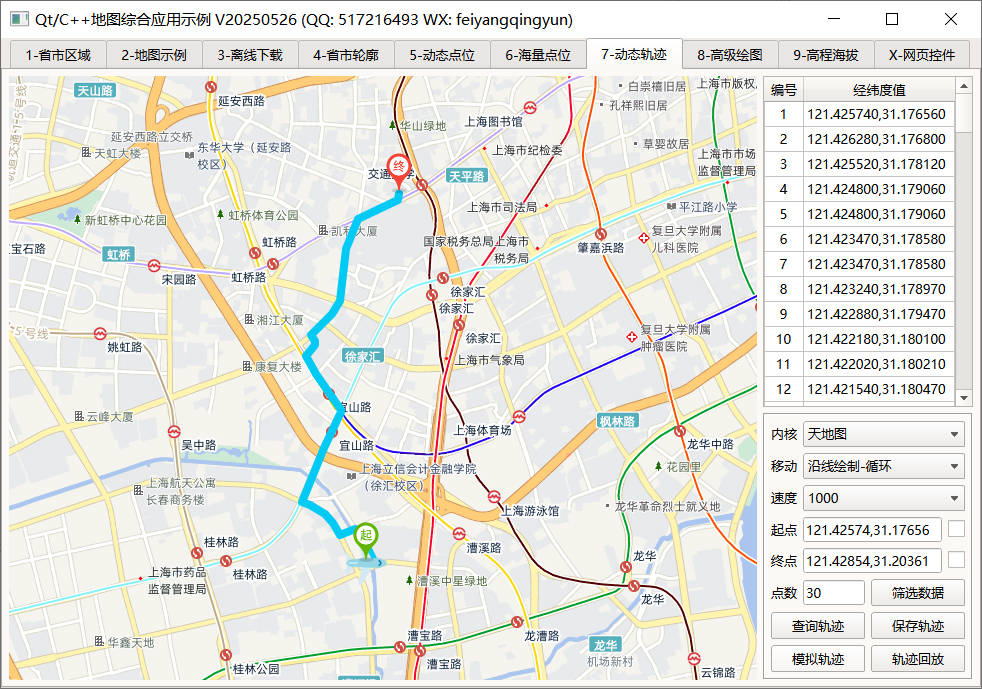
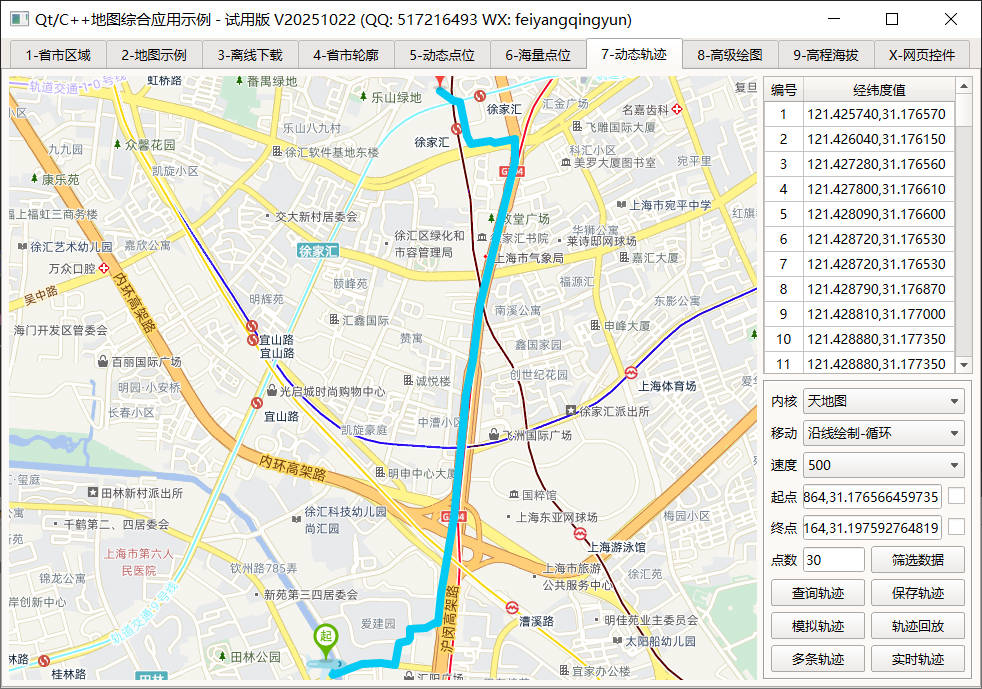
更新

diff --git a/snap_map/readme.md b/snap_map/readme.md
@@ -1,18 +1,19 @@
 ## 1、编译说明
 1. 编译完成以后记得将源码下的file目录下（切记是file目录下而不是file目录）的所有文件复制到可执行文件同一目录下即可。
-2. 可执行文件在源码同级目录下的bin目录，和core_map目录同级。
+2. 可执行文件在源码同级目录下的bin目录，和core_map目录同级，这个目录在编译后自动生成。
 3. 在线地图一般都需要对应的秘钥，本源码中内置的地图秘钥是本人的秘钥字符串，由于对应地图官方并发量有限制，建议换成自己的秘钥体验更加。可以通过函数接口setVersionKey设置秘钥字串。
 4. 百度地图申请步骤可以参考 https://blog.csdn.net/wodegeCSDN/article/details/130224845 。
 5. 本地图组件通过浏览器控件加载，所以依赖浏览器控件。由于不同的Qt版本提供的浏览器控件不同，甚至部分Qt版本比如mingw的Qt不提供浏览器控件，所以专门提供了core_webview组件，该组件封装了webkit/webengine/miniblink三大浏览器内核，会自动根据Qt套件识别出使用哪种浏览器内核，比如windows上mingw版本的Qt会自动采用miniblink内核，linux系统会采用webengine内核。如果有疑问那其他系统的miniblink没有怎办？这个不用考虑，因为其他系统Qt都自带了浏览器控件，不存在这个问题。就windows上的mingw版本的Qt才缺少这个组件。
 6. 如果启用的是miniblink内核，则需要将miniblink的动态库拷贝到可执行文件同一目录。dll_miniblink下载链接: https://pan.baidu.com/s/13LDRu6mXC6gaADtrGprNVA 提取码: ujm7
 7. 特别提示：路线规划和周边搜索相关功能只能在线使用，因为相关算法放在服务器。
 8. 如果需要加载国外的地图带英文以及当地语种，最佳组合是使用天地图离线模式加上谷歌地图瓦片。
+9. 如果发现地图不能在线加载瓦片，比如天地图，那很可能默认的秘钥在当前的瓦片数量已经用完，更换个秘钥即可。
 
 ## 2、离线地图
 1. 想要加载离线地图，前提是要有下载好的离线地图文件，也就是一张张的图片文件。离线地图也叫瓦片地图，这些文件可以使用本项目的离线地图下载模块下载，也可以用第三方的瓦片地图下载器下载。
 2. 如果暂时没有离线地图文件，可以直接下载提供好的离线地图文件测试。离线地图网盘地址：https://pan.baidu.com/s/1ZxG-oyUKe286LPMPxOrO2A 提取码：o05q  文件名：tiles.7z是徐汇区虹漕园精简版离线地图，bin_map_tiles.tar.gz 是上海市离线地图。
 3. 将离线地图文件目录拷贝到可执行文件所在的对应地图内核目录下（mapbaidu/mapgaode/maptian/mapgoogle等），和map_load.js文件同一级目录。
-4. **离线地图目录可能有三个文件夹，tiles表示街道图，tiles_hybrid表示卫星图，tiles_self表示自定义图层，比如需要混合路线图等。天地图比较特殊，分6个目录，对应官网定义的6种地图。街道图底图是vec_w，街道图路网是cva_w，卫星图底图是img_w，卫星图路网是cia_w，地形图底图是ter_w，地形图路网是cta_w。**
+4. **离线地图目录可能有三个文件夹，tiles表示街道图，tiles_hybrid表示卫星图，tiles_self表示自定义图层，比如需要混合路线图等。天地图比较特殊，分6个目录，对应官网定义的6种地图。街道图底图是tiles_vec_w，街道图路网是tiles_cva_w，卫星图底图是tiles_img_w，卫星图路网是tiles_cia_w，地形图底图是tiles_ter_w，地形图路网是tiles_cta_w。天地图图层说明 http://lbs.tianditu.gov.cn/server/MapService.html 。**
 5. 同一种地图内核的离线地图文件通用。网盘上提供的瓦片地图是使用本项目的离线地图下载模块下载的，也可以自己用万能地图下载器下载，对应替换就行。
 6. 瓦片地图就是一张张图片文件，格式可以自定义，如果格式不一样可能会加载失败，需要手动修改。比如百度地图内核需要打开/mapbaidu/map_load.js文件，将.png改成.jpg保存即可。
 7. 经过大量的测试对比发现，无论哪种地图内核，卫星图是jpg格式，其他的比如街道图和叠加图都是png格式。
@@ -26,7 +27,7 @@
 include ($$PWD/../core_map/core_map.pri)
 include ($$PWD/../core_webview/core_webview.pri)
 ```
-2. 在pro中启用地图内核，比如百度地图内核对应需要在pro文件中增加一行定义  DEFINES += baidux，天地图内核对应 DEFINES += tianx
+2. 在pro中启用地图内核，比如百度地图内核对应需要在pro文件中增加一行定义  DEFINES += baidux，天地图内核对应 DEFINES += tianx。如果是vsqt环境，添加的位置大概在属性-》配置属性-》C/C++-》预处理器。
 3. 引入头文件。
 ```cpp
 #include "webview.h"
@@ -40,8 +41,8 @@ include ($$PWD/../core_webview/core_webview.pri)
 WebView *webView = new WebView(this);
 //加入到布局
 webView->setLayout(ui->gridLayout);
-//实例化地图类/参数2表示何种地图内核
-MapObjBase *mapObj = MapHelper::getMapObj(this, MapCore_BaiDu);
+//实例化地图类/参数2表示何种地图内核/你用的哪一种就填哪一种/必须正确
+MapObjBase *mapObj = MapHelper::getMapObj(this, MapCore_Tian);
 //传入网页控件用于执行函数
 mapObj->setWebView(webView);
 //直接加载地图
@@ -311,7 +312,7 @@ int main(int argc, char *argv[])
 - **筛选后如果想恢复数据，数量填0重新筛选即可，0表示不筛选直接用原始数据。**
 7. 第七步：保存轨迹，这一步可选，可以将当前查询的轨迹点保存到文本文件中，以便提供给轨迹回放模块使用。
 8. 第八步：模拟轨迹，单击模拟轨迹按钮，会按照设定的速度模拟轨迹点移动，按钮字样变成停止模拟，再次单击则停止模拟。
-9. 第九步：轨迹回放，这一步可选，单击轨迹回放按钮，弹出轨迹回放界面。
+9. 第九步：轨迹回放、多条轨迹、实时轨迹，这一步可选，单击按钮弹出对应界面。
 
 #### 4.7.2 轨迹回放
 ![](snap/map701.jpg)
@@ -320,10 +321,30 @@ int main(int argc, char *argv[])
 2. 也可以选择在线地图还是离线地图，目前百度地图有离线地图。
 3. 切换地图类型，可以切换到街道图、卫星图、混合图三种。有些用户希望在混合图中看轨迹回放效果。
 4. 选择移动的速度，值越大速度越快。
-5. 下拉选择数据来源，可选两点坐标、多点坐标、文件导入。两点坐标用来测试给定两个点坐标，在两点个形成的直线上运动，主要是为了验证不是跳跃运动，而是匀速移动。底层会根据线条自动生成了平滑的移动点。
-6. 文件导入就是导入的上一个界面保存轨迹后生成的文件，在这里可以看到回放。由于不同地图内核使用的坐标系不一样，所以这个文件的路径轨迹未必一致。比如百度地图搜索出来的轨迹点，放到其他地图上绘制，看起来经过的路线不正确，坐标点并不在实际的路线中。高德和腾讯的通用。
-7. 在这里演示移动轨迹的时候，部分地图内核会自动设置当前地图中心点是最近的一个点，这样看起来效果更好。
-8. 轨迹回放中的数据源下拉框选项有个文件导入，是从可执行文件根目录的points.txt文件导入的坐标，格式46.688610,24.773230;46.691320,24.773930，可以手动新建一个文件填入你需要验证的轨迹点集合，至少填两个点。这个文件在动态轨迹中查询路径后单击保存轨迹会保存到这个文件。
+5. 下拉选择数据来源，可选两点坐标、多点坐标、轨迹数据、选择文件。
+6. 两点坐标用来测试给定两个点坐标，在两点个形成的直线上运动，主要是为了验证不是跳跃运动，而是匀速移动。底层会根据线条自动生成了平滑的移动点。
+7. 多点坐标用来测试多个经纬度坐标点，生成的曲线运动。
+8. 轨迹数据就是固定从 data/points.txt 文件读取轨迹点显示，这个文件是上一个界面单击保存轨迹按钮后生成的文件，在这里可以看到回放。由于不同地图内核使用的坐标系不一样，所以这个文件的路径轨迹未必一致。比如百度地图搜索出来的轨迹点，放到其他地图上绘制，看起来经过的路线不正确，坐标点并不在实际的路线中。高德和腾讯的通用。
+9. 选择文件用来演示导入自定义的轨迹点坐标，默认文件是 data/points_gps.txt ，这是个手机上gps移动导出的模板文件，如果你的文件刚好是这个格式可以直接用。
+10. 如果想用最简单的方式测试轨迹点，打开 data/points.txt 文件，填入至少两个点坐标，格式46.688610,24.773230;46.691320,24.773930  ，然后下拉框选择轨迹数据即可。
+11. 在这里演示移动轨迹的时候，部分地图内核会自动设置当前地图中心点是最近的一个点，这样看起来效果更好。
+12. 后期有可能会增加其他下拉框，或者更新对应的文字描述，大致功能大差不差，以实际的为准。
+
+#### 4.7.3 多条轨迹
+![](snap/map702.jpg)
+
+1. 演示如何回放多条轨迹，默认2条轨迹，可以自行修改支持更多条。
+2. 每条估计都可以设置不同的颜色、粗细等属性。
+3. 每条都可以设置不同的标注图标等参数。
+
+#### 4.7.4 实时轨迹
+![](snap/map703.jpg)
+
+1. 演示实时轨迹效果，传入收到的经纬度坐标，添加到轨迹中移动。并不是轨迹回放，需要提前设置好轨迹数据。
+2. 里面默认从资源文件读取的几个轨迹文本数据作为演示数据，实际情况可以传入收到的一个经纬度坐标。
+3. 自带平滑算法，也就是上一个点到新的点形成的直线，并不是一下子跳跃过去的，而是生成了多个线上的点，慢慢移动过去的，看起来很平滑。
+4. 自带旋转角度算法，到下一个点会自动计算出来旋转角度，然后对应标注点图标旋转对应的角度移动，这样效果更逼真。
+5. 默认演示是两条轨迹，可以自行修改增加更多条，每一条的颜色粗细等参数都可以设置。
 
 ### 4.8 高级绘图
 #### 4.8.1 各种示例
@@ -378,6 +399,8 @@ int main(int argc, char *argv[])
 6. 支持直接在地图上拖曳标注点移动位置。
 7. 删除标准点后重新排序绘制航迹。
 8. 标注点带序号图标显示，清晰直观。
+9. 单击开始回放按钮，自动生成一个轨迹回放对象，在对应轨迹上移动。
+10. 可以暂停和继续回放，看对应暂停效果。
 
 
 ### 4.9 高程海拔
@@ -464,7 +487,7 @@ void frmMapDemo::receiveDataFromJs(const QString &type, const QVariant &data)
 |routepoints|lnglat1;lnglat2\|lnglat1;lnglat2|路径规划查询结果返回，路线的经纬度坐标集合，可能有多条路线，中间用英文竖杠 \| 隔开。|
 |distance|88.8|地图测距过程中每一步触发一次，返回对应距离。|
 |distanceend|188|地图测距完成触发，返回对应总距离，单位米。|
-|overlayinfo|flag\|point/points等|调用getOverlayInfo函数触发，获取覆盖物信息，对应标识可以是marker/circle/polyline/polygon，如果是标注点则返回经纬度坐标，如果是多边形则返回坐标集合，圆形则依次是中心点/半径/边缘坐标集合。多个覆盖物则每个都会触发一次。|
+|overlayinfo|type\|flag\|point/points等|调用getOverlayInfo函数触发，获取覆盖物信息，对应type可以是marker/circle/polyline/polygon。对应flag是覆盖物的唯一标识，在添加覆盖物的时候指定，没有指定则为空。如果是标注点则返回经纬度坐标，如果是多边形则返回坐标集合，圆形则依次是中心点/半径/边缘坐标集合。多个覆盖物则每个都会触发一次。|
 |pointcollection|lnglat|单击点聚合中的某个点触发。|
 |marker|flag\|event|鼠标单击双击右键标注点触发，event=click/dblclick/rightclick|
 |polyline|flag\|event|鼠标单击双击右键折线条触发，event=click/dblclick/rightclick|
@@ -575,7 +598,7 @@ void frmMapDemo::receiveDataFromJs(const QString &type, const QVariant &data)
 3. 下载地图样式文件 http://api.tianditu.gov.cn/v4.0/css/tianditu4.0.css 。地图样式文件必须下载。
 4. 下载高级绘图文件 http://api.tianditu.gov.cn/v4.0/military.js 。非必须，一般用不上。
 5. 下载服务请求文件 http://api.tianditu.gov.cn/v4.0/service.js 。非必须，用于发送网络请求获取逆地址解析、路径规划查询等，既然都离线了，也用不了。
-6. 打开js文件和css文件，依次下载对应的图片，可以通过搜索 .png 查找对应的图片。
+6. 打开js文件和css文件，依次下载对应的图片，可以通过搜索 .png 查找对应的图片。比如代码中是 ../img/map/cluster/cluster0.png，则完整地址是 http://api.tianditu.gov.cn/img/map/cluster/cluster0.png，也就是只需要对../替换成 http://api.tianditu.gov.cn 即可。
 7. 打开核心js文件搜索 T.DomainFun()，将下面的路径改成本地的。
 ```cpp
 E: "./",
@@ -658,11 +681,21 @@ TMAP_TERRAIN_HYBRID_MAP = new T.MapType([s, r], "TMAP_TERRAIN_HYBRID_MAP")
 
 ## 10、版本说明
 
+### V202510
+1. 将fromgps单独一个pri，增加了多条轨迹的模拟窗体以及实时估计的窗体。
+2. 新增实时轨迹，演示传入实时经纬度坐标，添加，形成轨迹，支持多条轨迹。
+3. 实时轨迹新增平滑插值算法，移动的时候平滑移动，如果两个点比较远，不会出现跳跃式前进，而是平滑式前进。
+4. 修复天地图对应标注点文字更新位置后不显示的bug。
+5. 修复轨迹规划模块，鼠标缩放地图后会自动启动移动的bug。
+
 ### V202503
 1. 新增mapdraw目录，专门存放封装的各种绘制类，方便传入参数直接使用，比如雷达模拟，飞行轨迹，轨迹回放等。
 2. 新增getOverlayInfo2函数，传入类型和覆盖物对象，获取对应的信息，比如经纬度坐标，圆形还有半径，矩形则四个点等信息，方便单击或者拖曳等地方获取，发出信号通知进行处理。
 3. 新增统一的事件名转换函数，比如contextmenu纠正为rightclick，drag纠正为dragging，方便统一设置和接收处理。
 4. 精益求精，大幅度降低高程海拔数据占用的内存，从1.5G占用降低到0.15G，核心就是将之前的字符串存储的值改成qint16数据类型。
+5. 所有覆盖物信息获取返回值，增加flag唯一标识，也就是该覆盖物添加的时候指定的唯一名字，方便获取的时候区分。
+6. 天地图离线js文件，修改默认最大级别18级到21级，以便加载更高精度的离线地图，比如谷歌瓦片地图可以通用天地图。
+7. 地图示例增加配置参数MapDemoZoomMax，用来控制地图缩放最大级别，用来测试加载更高精度的地图。天地图默认在线瓦片只提供到18级别。
 
 ### V202502
 1. 新增地图事件参数，默认地图会添加单击事件，如果还要添加其他事件，需要调用setMapEvent函数设置，参数是对应枚举值，支持多个组合，比如mapObj->setMapEvent(MapEvent_Click | MapEvent_RightClick)表示同时添加地图单击和右键事件。
